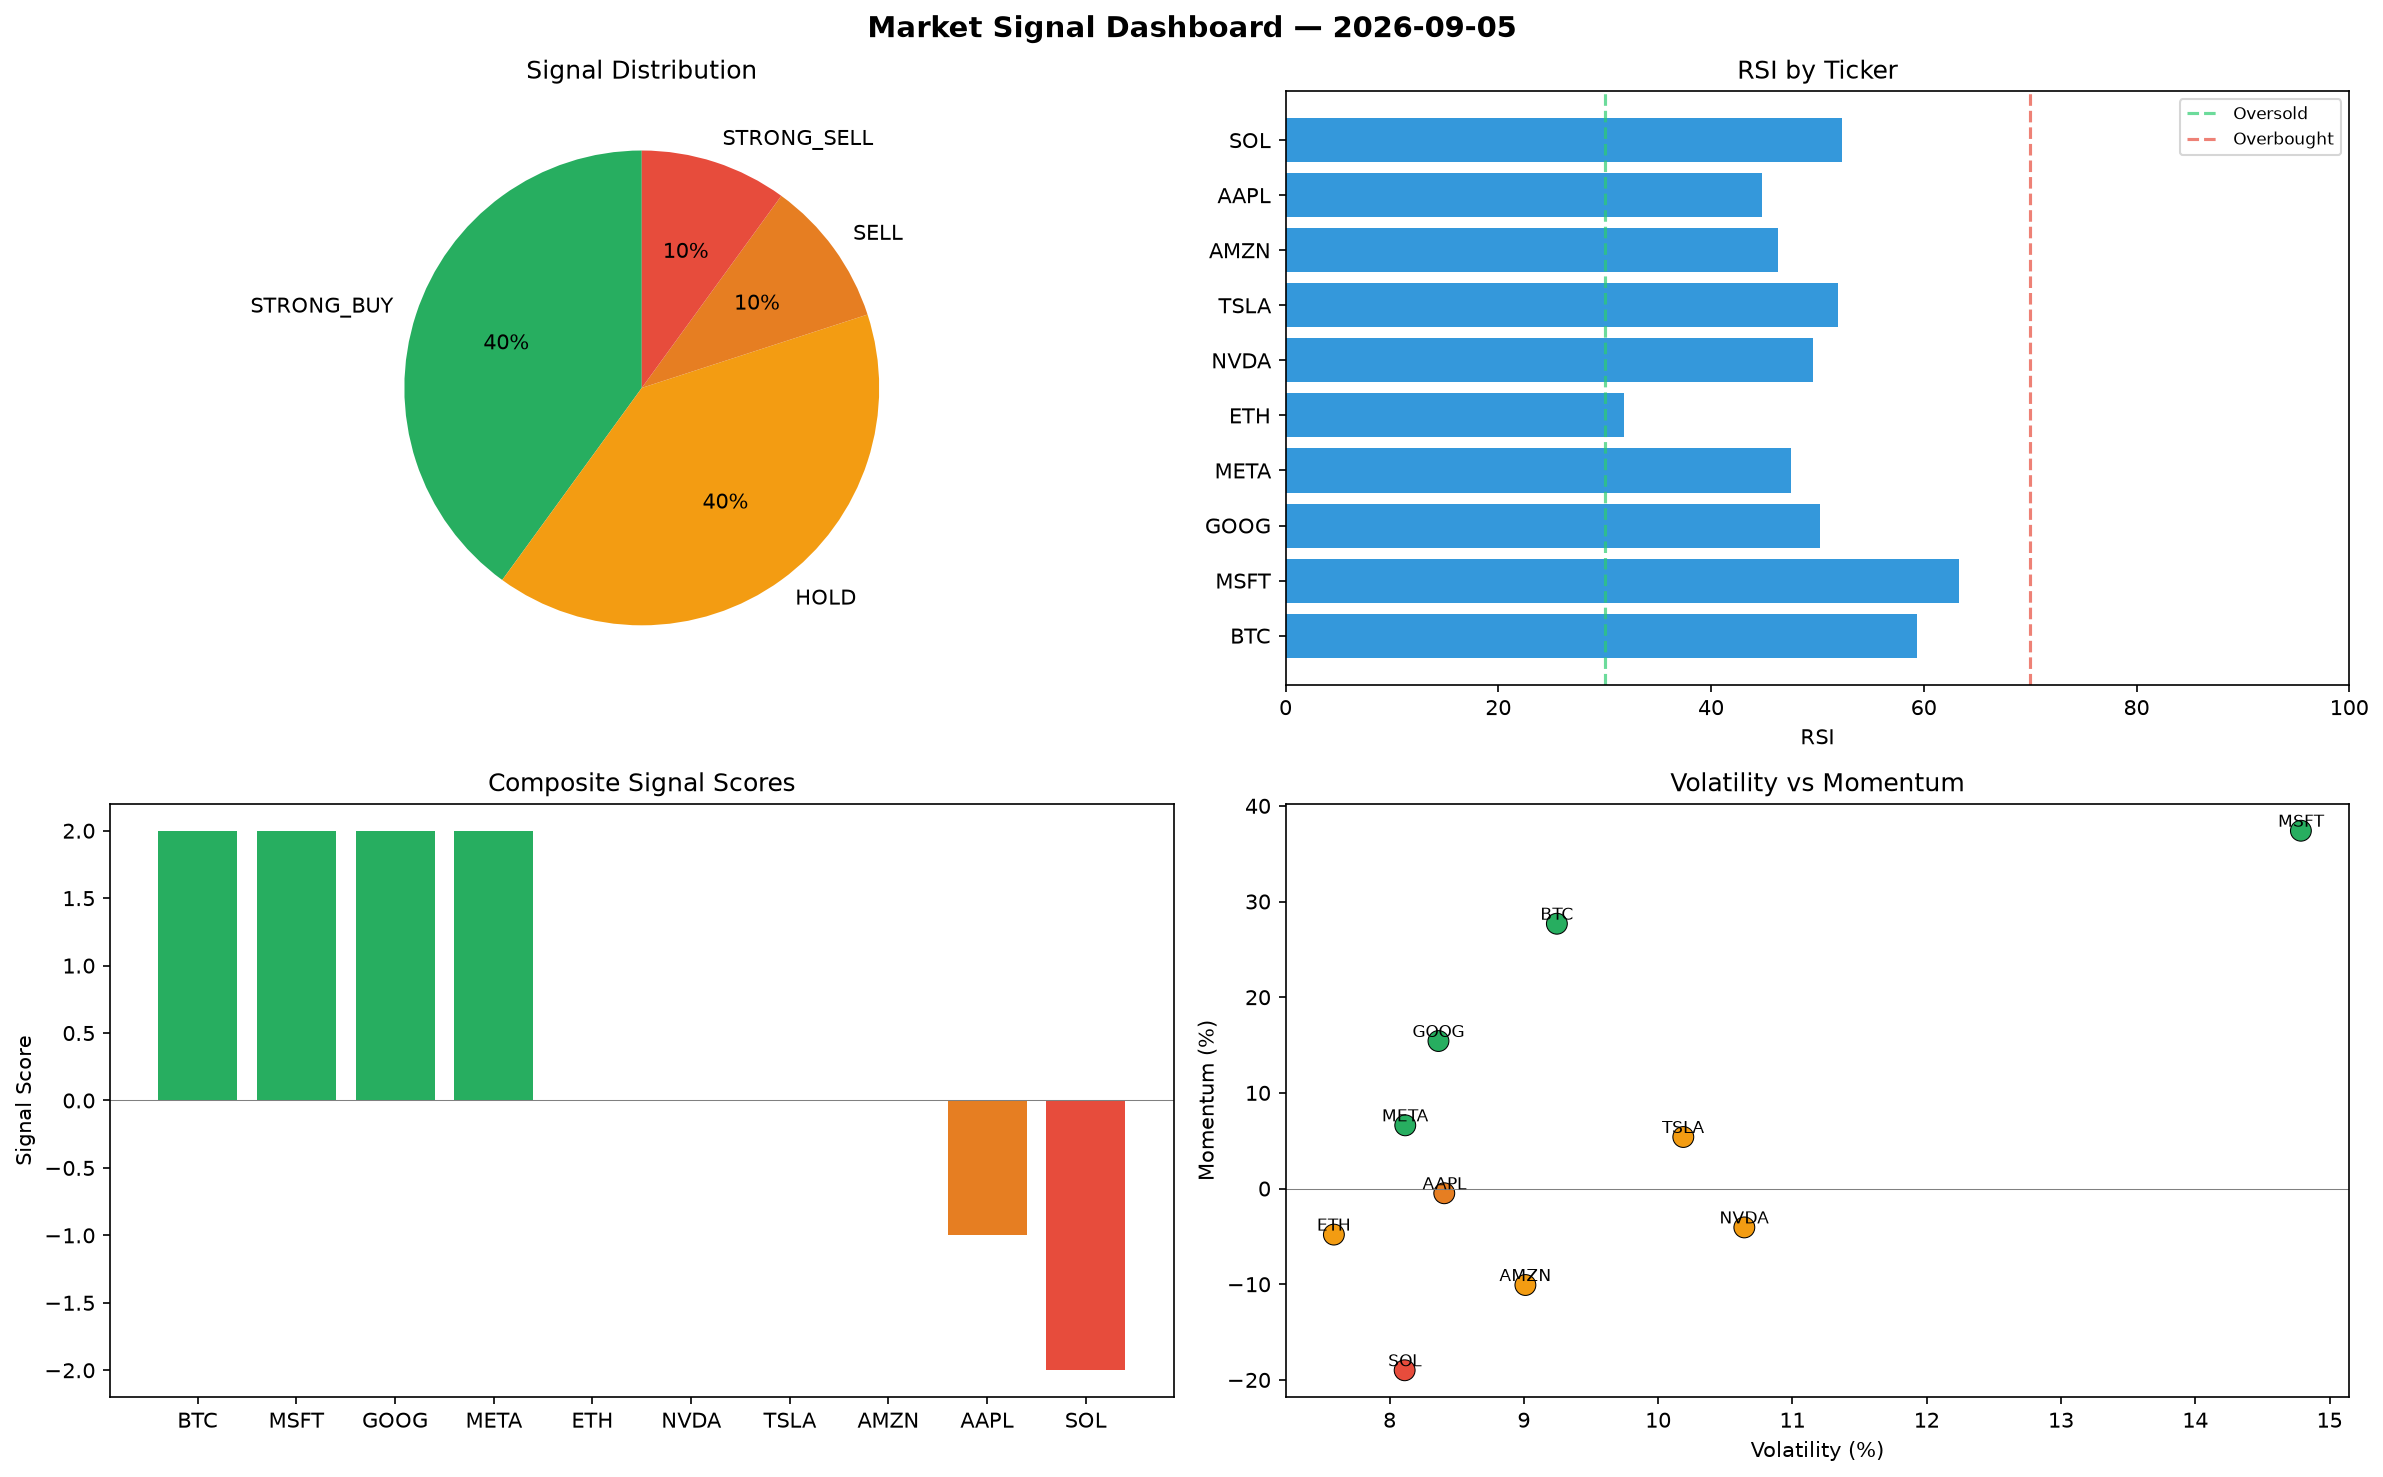
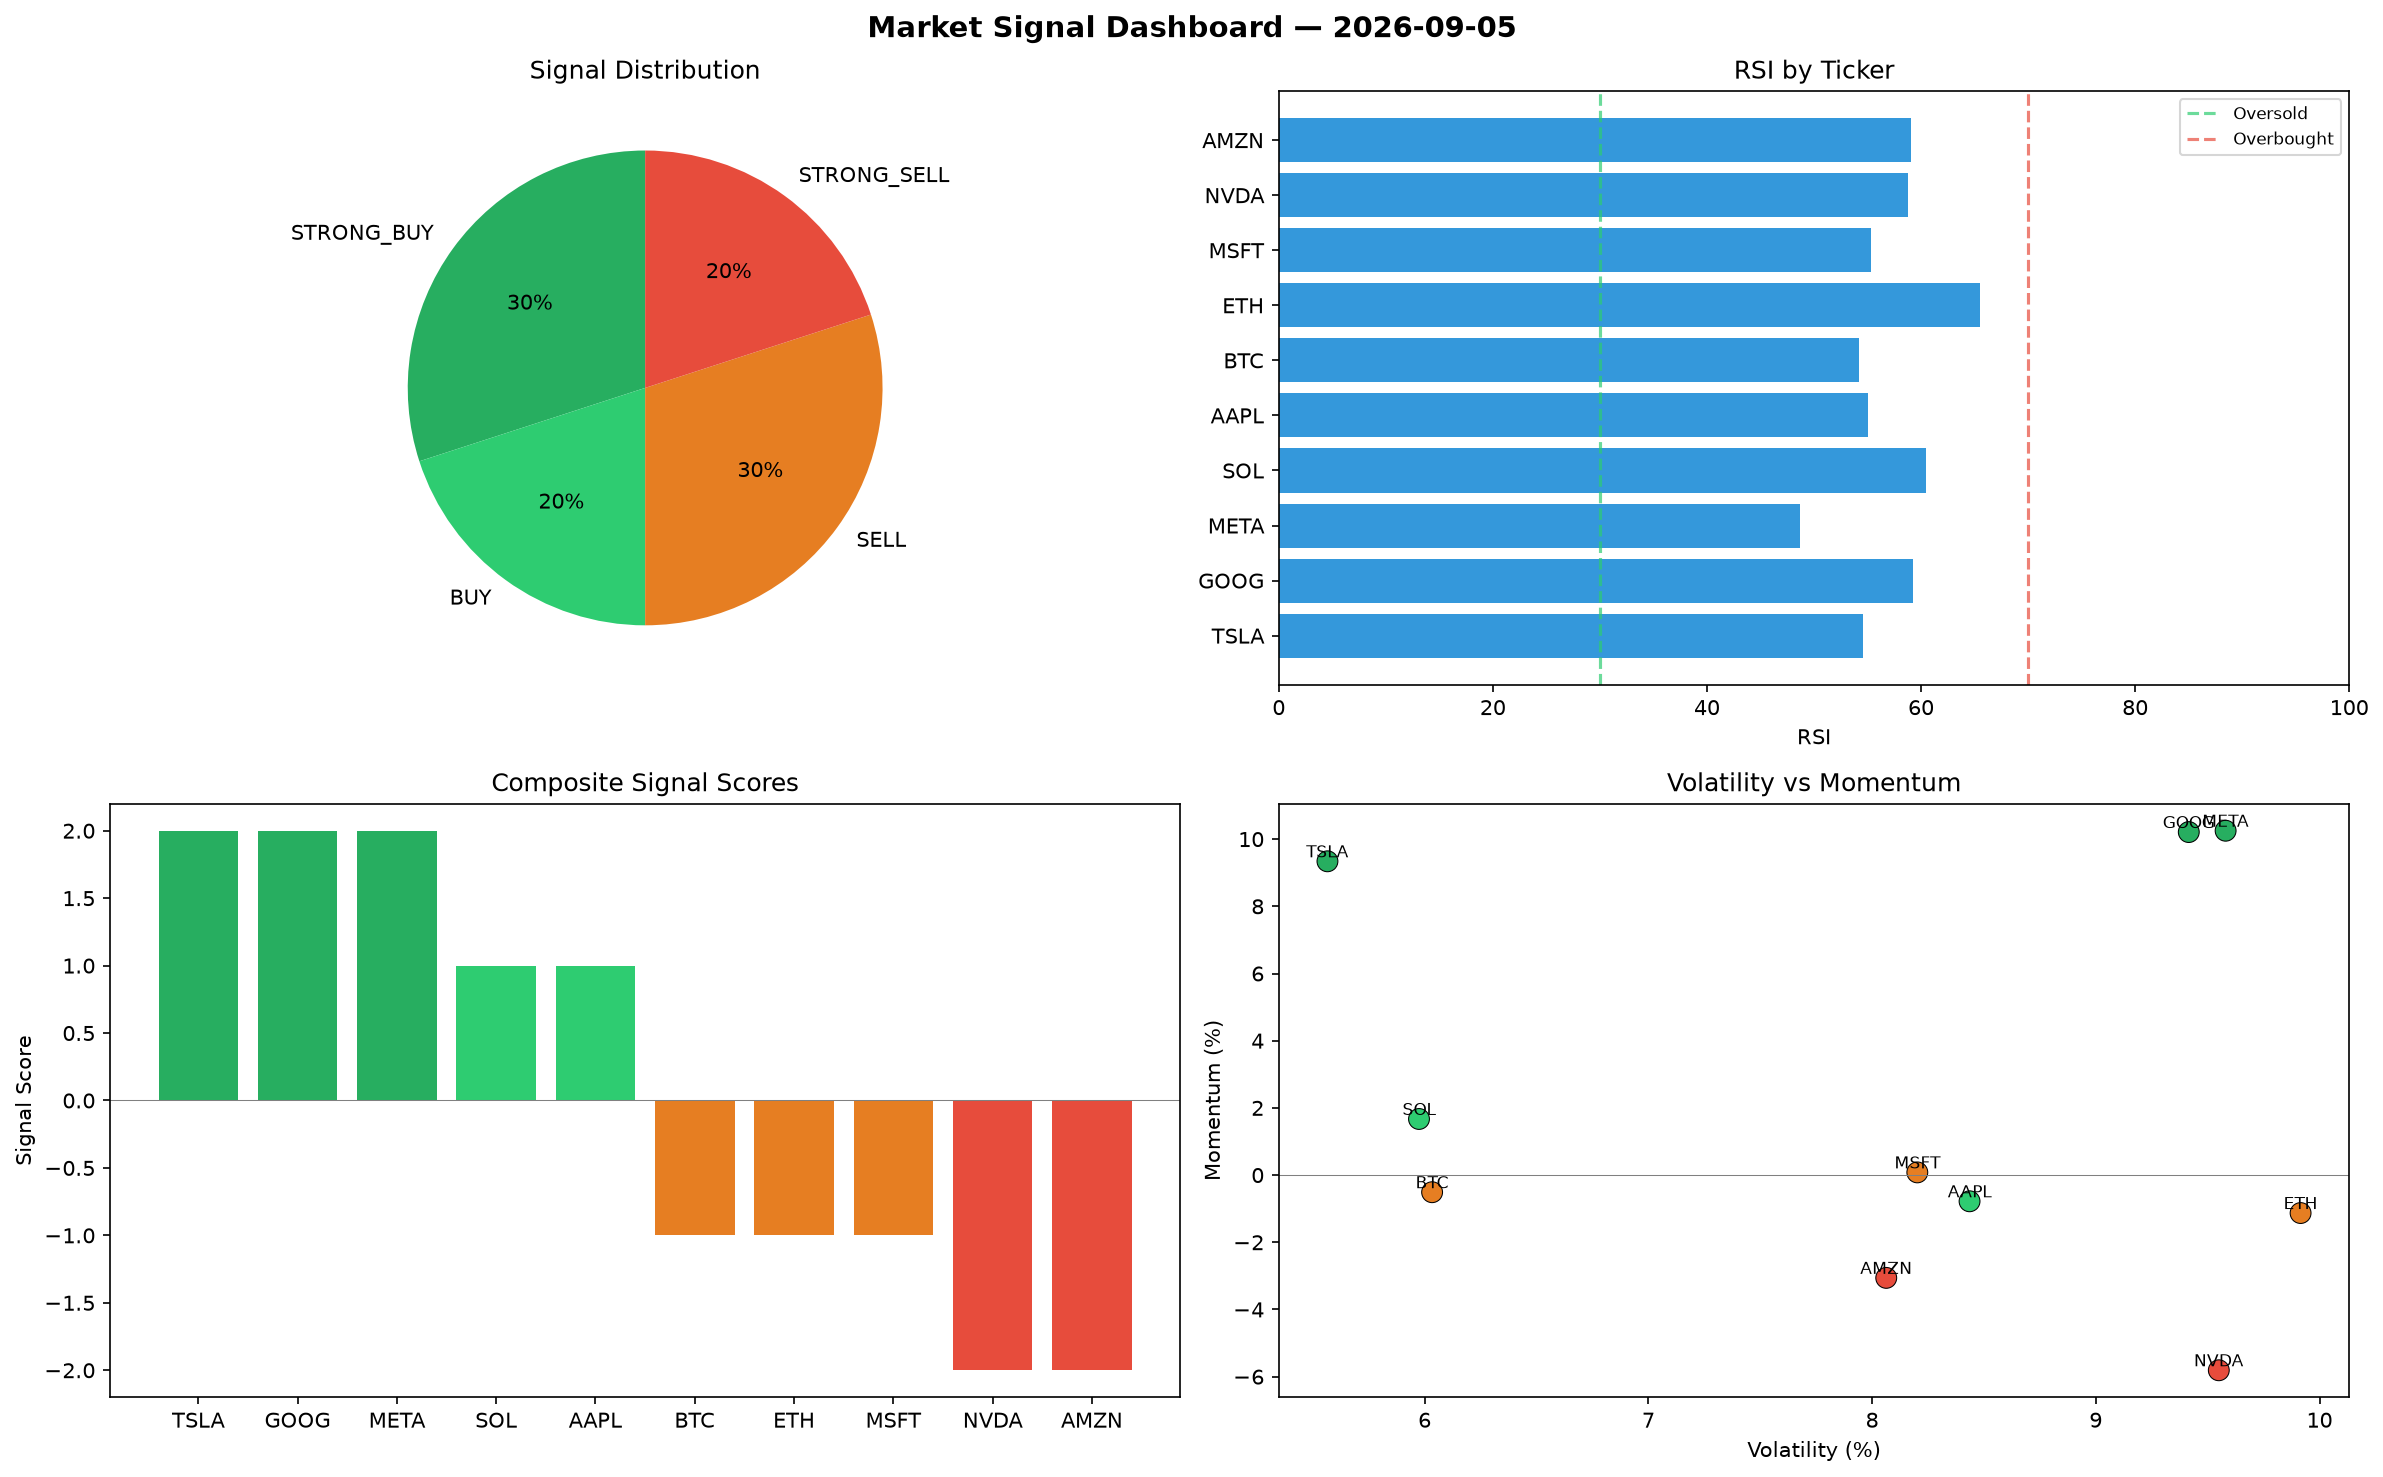
automated-bots: market signals 2026-09-05T22:07

diff --git a/logs/2026-09-05.md b/logs/2026-09-05.md
@@ -1,6 +1,6 @@
 # Market Signal Report — 2026-09-05
 
-**Run ID:** `51f362d04c` | **Buy:** 4 | **Sell:** 2 | **Hold:** 4
+**Run ID:** `53ed139f2f` | **Buy:** 5 | **Sell:** 5 | **Hold:** 0
 
 ![Dashboard](2026-09-05_dashboard.png)
 
@@ -8,28 +8,28 @@
 
 | Ticker | Price | Signal | Score | RSI | Momentum | Confidence |
 |--------|-------|--------|-------|-----|----------|------------|
-| BTC | $4737.77 | **STRONG_BUY** | 2 | 59.37 | 0.2768 | 0.5 |
-| MSFT | $2245.67 | **STRONG_BUY** | 2 | 63.35 | 0.374 | 0.5 |
-| GOOG | $2282.18 | **STRONG_BUY** | 2 | 50.28 | 0.1542 | 0.5 |
-| META | $688.08 | **STRONG_BUY** | 2 | 47.5 | 0.0661 | 0.5 |
-| ETH | $814.19 | **HOLD** | 0 | 31.84 | -0.0481 | 0.0 |
-| NVDA | $4035.9 | **HOLD** | 0 | 49.57 | -0.0406 | 0.0 |
-| TSLA | $382.22 | **HOLD** | 0 | 51.96 | 0.0539 | 0.0 |
-| AMZN | $4227.55 | **HOLD** | 0 | 46.32 | -0.1008 | 0.0 |
-| AAPL | $571.69 | **SELL** | -1 | 44.79 | -0.0049 | 0.25 |
-| SOL | $3245.58 | **STRONG_SELL** | -2 | 52.32 | -0.1899 | 0.5 |
+| TSLA | $4297.84 | **STRONG_BUY** | 2 | 54.55 | 0.0934 | 0.5 |
+| GOOG | $4800.16 | **STRONG_BUY** | 2 | 59.21 | 0.1021 | 0.5 |
+| META | $1083.87 | **STRONG_BUY** | 2 | 48.71 | 0.1025 | 0.5 |
+| SOL | $4446.59 | **BUY** | 1 | 60.44 | 0.0167 | 0.25 |
+| AAPL | $5035.29 | **BUY** | 1 | 55.04 | -0.0078 | 0.25 |
+| BTC | $781.05 | **SELL** | -1 | 54.18 | -0.0051 | 0.25 |
+| ETH | $1539.91 | **SELL** | -1 | 65.48 | -0.0113 | 0.25 |
+| MSFT | $4672.6 | **SELL** | -1 | 55.33 | 0.0008 | 0.25 |
+| NVDA | $2167.08 | **STRONG_SELL** | -2 | 58.81 | -0.0581 | 0.5 |
+| AMZN | $4614.94 | **STRONG_SELL** | -2 | 59.1 | -0.0306 | 0.5 |
 
 ## Delta vs Yesterday
 
 | Ticker | Today | Yesterday | Price Change | Signal Changed |
 |--------|-------|-----------|-------------|----------------|
-| BTC | STRONG_BUY | STRONG_BUY | 📈 733.67% | — |
-| MSFT | STRONG_BUY | HOLD | 📈 174.74% | ⚠ YES |
-| GOOG | STRONG_BUY | HOLD | 📈 466.75% | ⚠ YES |
-| META | STRONG_BUY | BUY | 📈 28.92% | ⚠ YES |
-| ETH | HOLD | STRONG_BUY | 📈 873.1% | ⚠ YES |
-| NVDA | HOLD | STRONG_BUY | 📈 18.15% | ⚠ YES |
-| TSLA | HOLD | STRONG_SELL | 📉 -86.9% | ⚠ YES |
-| AMZN | HOLD | STRONG_SELL | 📈 39.15% | ⚠ YES |
-| AAPL | SELL | STRONG_BUY | 📉 -39.61% | ⚠ YES |
-| SOL | STRONG_SELL | BUY | 📉 -16.53% | ⚠ YES |
+| TSLA | STRONG_BUY | STRONG_SELL | 📈 47.33% | ⚠ YES |
+| GOOG | STRONG_BUY | HOLD | 📈 1092.05% | ⚠ YES |
+| META | STRONG_BUY | BUY | 📈 103.08% | ⚠ YES |
+| SOL | BUY | BUY | 📈 14.36% | — |
+| AAPL | BUY | STRONG_BUY | 📈 431.89% | ⚠ YES |
+| BTC | SELL | STRONG_BUY | 📈 37.44% | ⚠ YES |
+| ETH | SELL | STRONG_BUY | 📈 1740.46% | ⚠ YES |
+| MSFT | SELL | HOLD | 📈 471.66% | ⚠ YES |
+| NVDA | STRONG_SELL | STRONG_BUY | 📉 -36.56% | ⚠ YES |
+| AMZN | STRONG_SELL | STRONG_SELL | 📈 51.91% | — |
